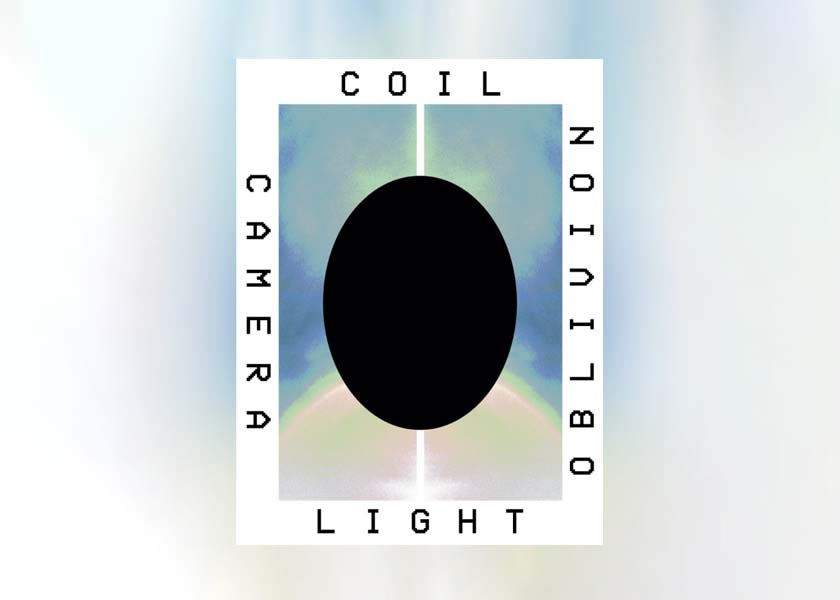
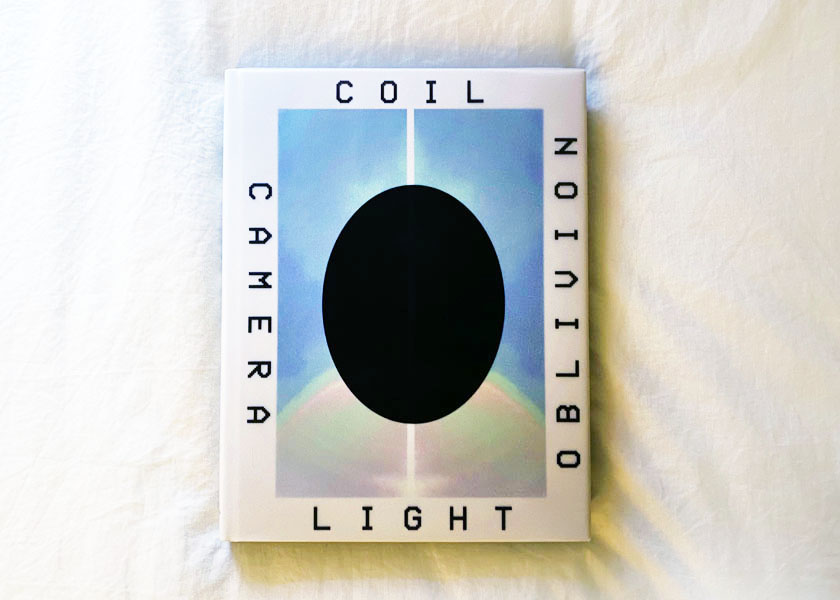
COIL page added
added COIL page for the book launch. YES

diff --git a/coil.html b/coil.html
@@ -1,0 +1,56 @@
+<!DOCTYPE html>
+<html lang="en">
+
+<head>
+	<meta charset="UTF-8">
+	<meta name="viewport" content="width=device-width, initial-scale=1.0"/>
+	<meta http-equiv="X-UA-Compatible" content="ie=edge"/>
+	<link rel="stylesheet" href="style.css">
+	<title>𝗟-𝗙+𝗠</title>
+<!--web top icon for multiple devices-->
+	<link rel="apple-touch-icon" sizes="180x180" href="icons/chess_queen2.png">
+	<link rel="icon" type="image/png" sizes="32x32" href="icons/chess_queen2.png">
+	<link rel="icon" type="image/png" sizes="16x16" href="icons/chess_queen2.png">
+	<link rel="manifest" href="icons/site.webmanifest">
+
+</head>
+
+<body class="black">
+<article>
+<!--===== TOPBAR =====-->
+	<div class="topbar" id="topbar">
+		<div class="logo_small"><a href="index.html">L-F+M</a></div>
+		<div class="logo"><a href="index.html">LETTER - FORMS + MAGIC</a></div>
+		<div class="tabs">
+			<div class="tab"><a href="index.html">Work</a></div>
+			<div class="tab"><a href="about.html">About</a></div>
+		</div>
+	</div>	
+
+<div class="grid1, white" >
+<!--===== COLUMN ONE =====-->
+<!--ONE-->
+	<img class="projekti" src="links/projekti/coil-1.jpg">
+	<img class="projekti" src="links/projekti/coil-2.jpg">
+	<img class="projekti" src="links/projekti/coil-3.jpg">
+	<img class="projekti" src="links/projekti/coil-4.jpg">
+	<img class="projekti-mob" src="links/projekti/coilmob-1.jpg">
+	<img class="projekti-mob" src="links/projekti/coilmob-2.jpg">
+	<img class="projekti-mob" src="links/projekti/coilmob-3.jpg">
+	<img class="projekti-mob" src="links/projekti/coilmob-4.jpg">
+<!--===== COLUMN TWO =====-->
+<!--ONE-->
+</div>
+<!--===== FOOTER =====-->
+<footer class="footer-content, black">
+<div class="footer-social-icons">
+    <ul class="social-icons">
+    	<li><p>tihana@letterformagic.com</p>&nbsp;&nbsp;&nbsp;</li>
+        <li><a href="https://www.instagram.com/letterformagic" target="_blank" class="social-icon"> <i class="fa fa-instagram"></i></a></li>
+        <li><a href="https://www.facebook.com/letterformagic" target="_blank" class="social-icon"> <i class="fa fa-facebook-square"></i></i></a></li>
+    </ul>
+</div>
+</footer>
+</article>
+</body>
+</html>
